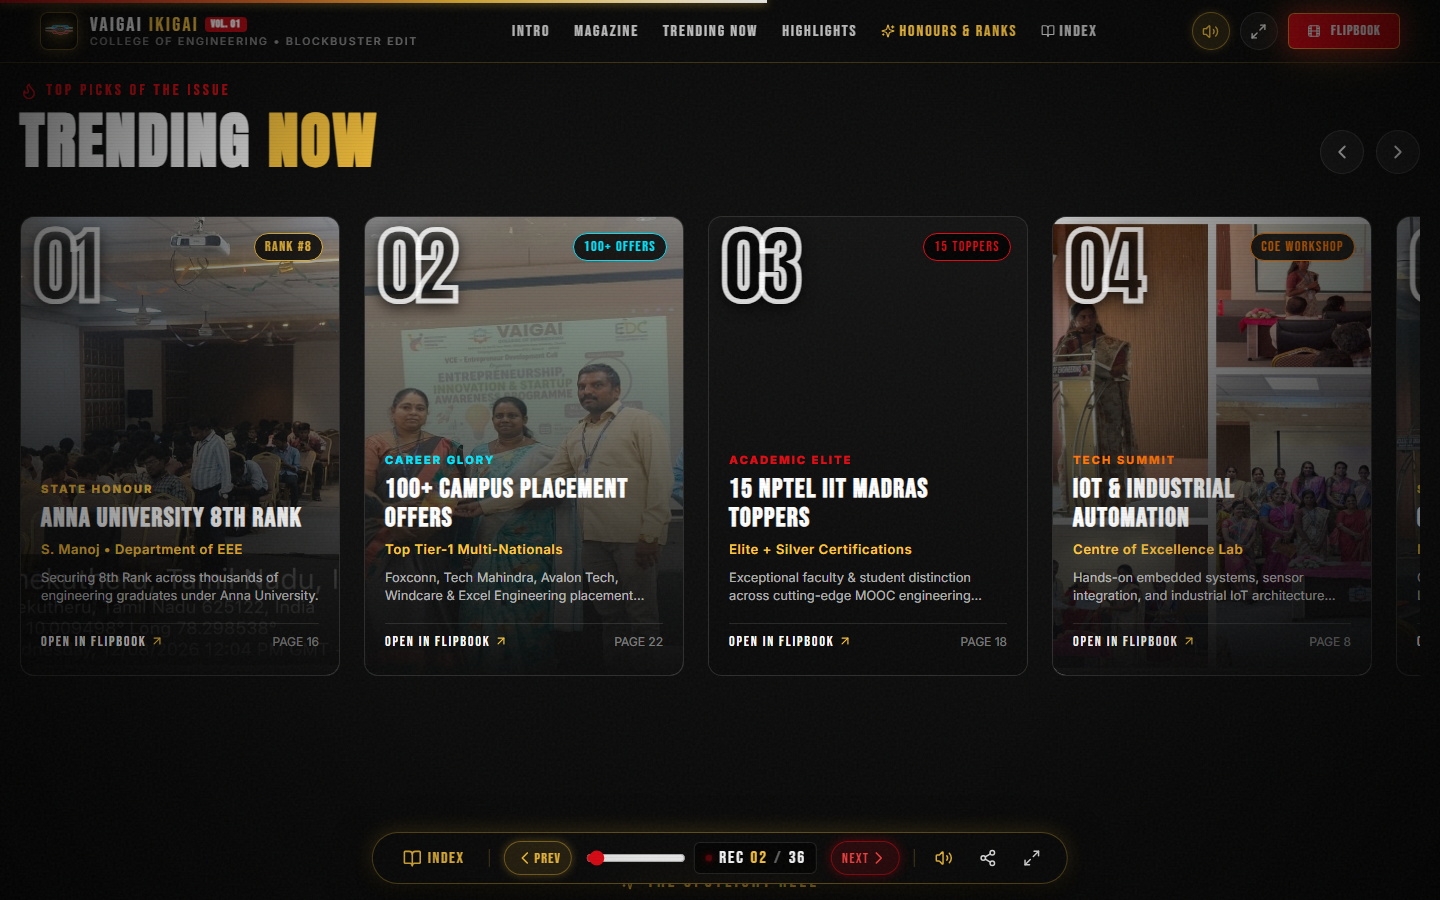
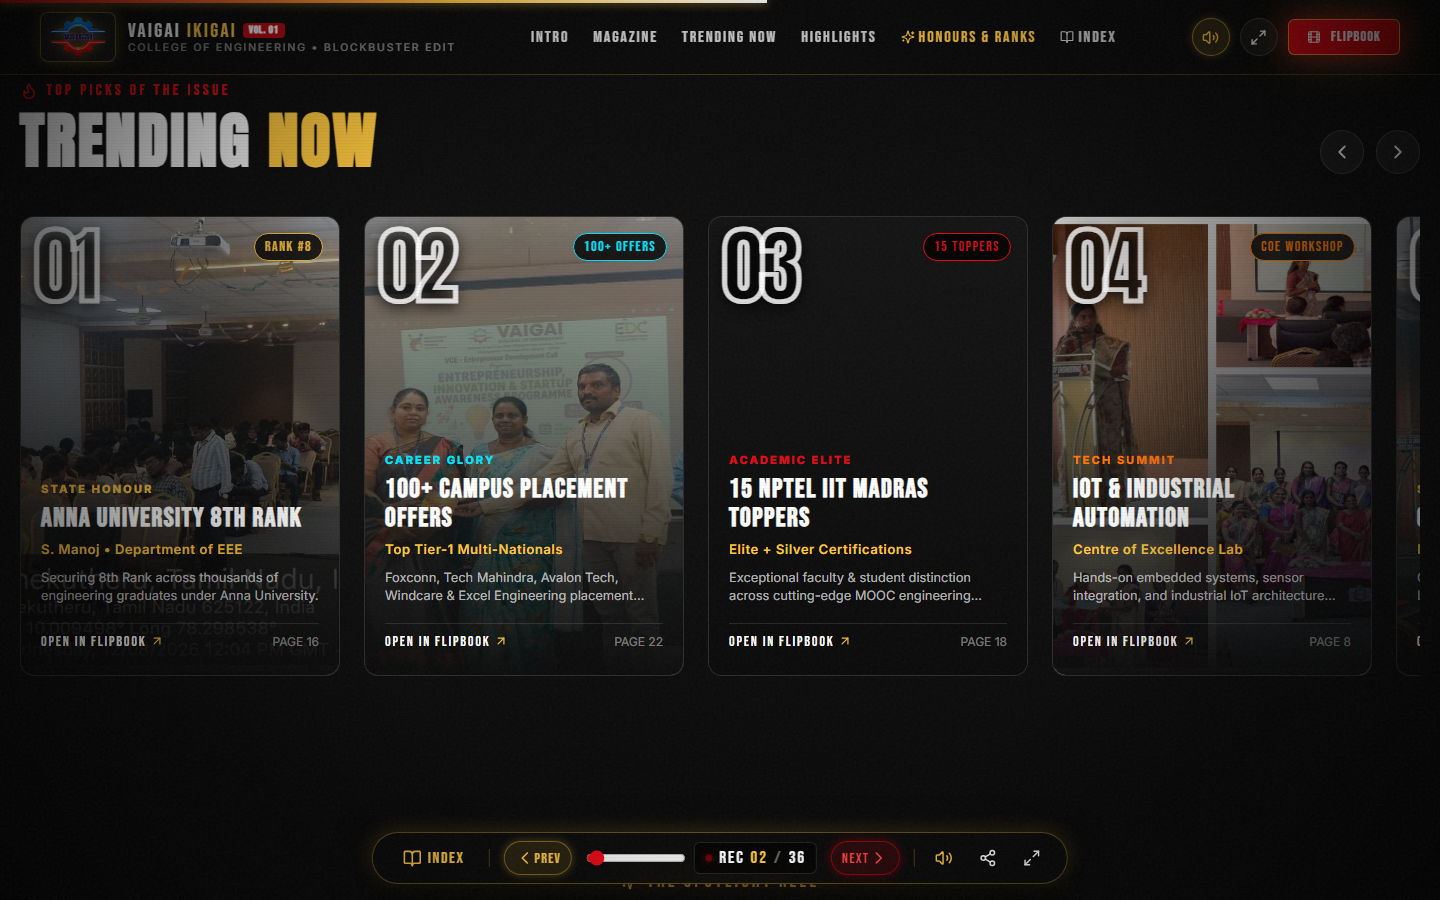
feat: integrate official college emblem in medium size across hero, navbar, preloader, and footer

Changed region(s): [[0.3438, 0.0311, 0.7812, 0.0622], [0.0312, 0.0, 0.3125, 0.0622], [0.8125, 0.0, 0.9688, 0.0622]]

diff --git a/src/components/Hero/CinematicHero.jsx b/src/components/Hero/CinematicHero.jsx
@@ -131,6 +131,43 @@ const CinematicHero = ({ onReadIssue, onExploreTrending }) => {
           <Flame size={15} color="#E50914" />
         </div>
 
+        {/* Medium-Sized Official College Logo with Golden Aura */}
+        <div
+          style={{
+            position: 'relative',
+            display: 'flex',
+            alignItems: 'center',
+            justifyContent: 'center',
+            margin: '4px 0 -4px'
+          }}
+        >
+          <div
+            style={{
+              position: 'absolute',
+              width: '120px',
+              height: '70px',
+              background: 'radial-gradient(circle, rgba(255, 200, 61, 0.35) 0%, rgba(229, 9, 20, 0.15) 50%, transparent 70%)',
+              filter: 'blur(20px)',
+              borderRadius: '50%',
+              pointerEvents: 'none'
+            }}
+          />
+          <img
+            src="/assets/images/logo.webp"
+            onError={(e) => { e.target.src = "/assets/images/logo.png"; }}
+            alt="Vaigai College of Engineering Official Emblem"
+            style={{
+              height: 'clamp(60px, 8.5vw, 82px)',
+              width: 'auto',
+              objectFit: 'contain',
+              filter: 'drop-shadow(0 4px 16px rgba(0, 0, 0, 0.8)) drop-shadow(0 0 18px rgba(255, 200, 61, 0.45))',
+              position: 'relative',
+              zIndex: 1,
+              transition: 'transform 0.3s ease'
+            }}
+          />
+        </div>
+
         {/* Institution Subheading */}
         <div
           style={{

diff --git a/src/components/Navbar/CinematicNavbar.jsx b/src/components/Navbar/CinematicNavbar.jsx
@@ -105,26 +105,26 @@ const CinematicNavbar = ({
           >
             <div
               style={{
-                width: '38px',
-                height: '38px',
-                borderRadius: '8px',
-                background: 'radial-gradient(circle, rgba(255, 200, 61, 0.2) 0%, rgba(0,0,0,0.8) 100%)',
-                border: '1px solid rgba(255, 200, 61, 0.4)',
                 display: 'flex',
                 alignItems: 'center',
                 justifyContent: 'center',
-                overflow: 'hidden',
-                boxShadow: '0 0 15px rgba(255, 200, 61, 0.3)'
+                padding: '4px 8px',
+                borderRadius: '8px',
+                background: 'rgba(255, 255, 255, 0.05)',
+                border: '1px solid rgba(255, 200, 61, 0.35)',
+                boxShadow: '0 0 15px rgba(255, 200, 61, 0.25)',
+                transition: 'transform 0.2s ease'
               }}
             >
               <img
                 src="/assets/images/logo.webp"
+                onError={(e) => { e.target.src = "/assets/images/logo.png"; }}
                 alt="Vaigai Emblem"
                 style={{
-                  width: '28px',
-                  height: '28px',
+                  height: '40px',
+                  width: 'auto',
                   objectFit: 'contain',
-                  filter: 'drop-shadow(0 0 4px rgba(255, 200, 61, 0.5))'
+                  filter: 'drop-shadow(0 0 6px rgba(255, 200, 61, 0.4))'
                 }}
               />
             </div>

diff --git a/src/components/Footer/CinematicFooter.jsx b/src/components/Footer/CinematicFooter.jsx
@@ -32,8 +32,9 @@ const CinematicFooter = () => {
             <div style={{ display: 'flex', alignItems: 'center', gap: '12px', marginBottom: '16px' }}>
               <img
                 src="/assets/images/logo.webp"
+                onError={(e) => { e.target.src = "/assets/images/logo.png"; }}
                 alt="Vaigai Crest"
-                style={{ width: '42px', height: '42px', objectFit: 'contain' }}
+                style={{ height: '48px', width: 'auto', objectFit: 'contain', filter: 'drop-shadow(0 2px 8px rgba(255, 200, 61, 0.35))' }}
               />
               <div>
                 <div
@@ -159,3 +160,4 @@ const CinematicFooter = () => {
 };
 
 export default CinematicFooter;
+

diff --git a/src/components/Preloader/CinematicPreloader.jsx b/src/components/Preloader/CinematicPreloader.jsx
@@ -79,9 +79,9 @@ const CinematicPreloader = ({ onComplete }) => {
       <div
         style={{
           position: 'relative',
-          width: '120px',
-          height: '100px',
-          marginBottom: '28px',
+          width: '140px',
+          height: '95px',
+          marginBottom: '24px',
           display: 'flex',
           alignItems: 'center',
           justifyContent: 'center'
@@ -178,3 +178,4 @@ const CinematicPreloader = ({ onComplete }) => {
 };
 
 export default CinematicPreloader;
+

diff --git a/src/components/Highlights/HighlightsGrid.jsx b/src/components/Highlights/HighlightsGrid.jsx
@@ -333,3 +333,4 @@ const HighlightsGrid = ({ onJumpToPage, onOpenLightbox }) => {
 };
 
 export default HighlightsGrid;
+

diff --git a/src/components/Trending/TrendingSection.jsx b/src/components/Trending/TrendingSection.jsx
@@ -445,3 +445,4 @@ const TrendingSection = ({ onJumpToPage }) => {
 };
 
 export default TrendingSection;
+

diff --git a/src/components/Marquee/CinematicTicker.jsx b/src/components/Marquee/CinematicTicker.jsx
@@ -127,3 +127,4 @@ const CinematicTicker = () => {
 };
 
 export default CinematicTicker;
+

diff --git a/src/components/Stats/CinematicStats.jsx b/src/components/Stats/CinematicStats.jsx
@@ -179,3 +179,4 @@ const CinematicStats = () => {
 };
 
 export default CinematicStats;
+

diff --git a/src/components/Cursor/CustomCursor.jsx b/src/components/Cursor/CustomCursor.jsx
@@ -84,3 +84,4 @@ const CustomCursor = () => {
 };
 
 export default CustomCursor;
+
